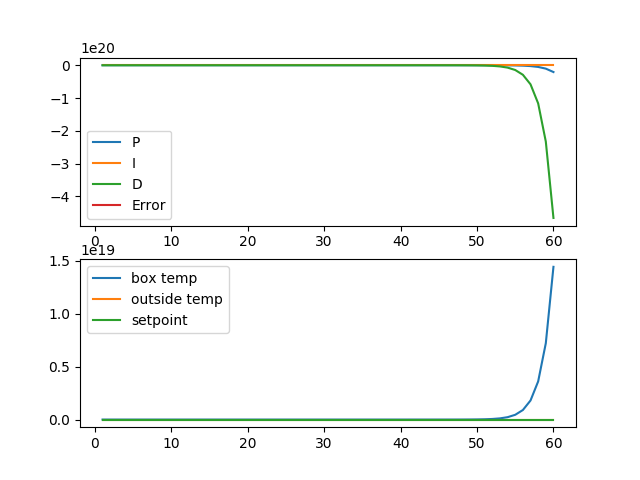
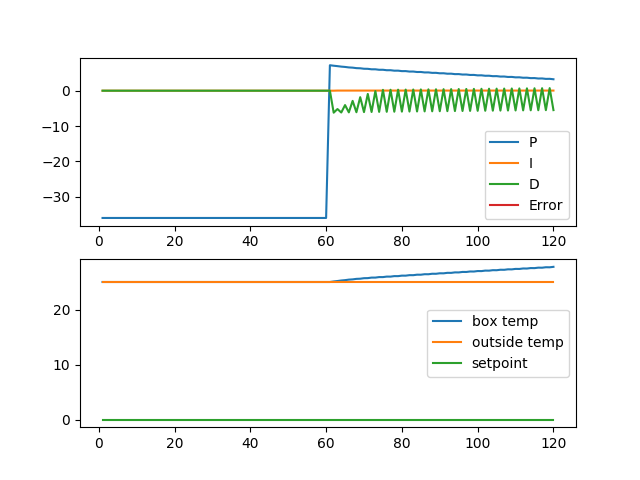
improved first_principles

diff --git a/first_principles_model.py b/first_principles_model.py
@@ -44,85 +44,80 @@ def optimize_parameters(parameters=[95, 1.95e-3], data_file='data.csv'):
 
 def run_model(run_time, PID_parameters, FP_parameters, data_file='data.csv'):
     '''Run a controller on the first-principles model
-    run_time        total run time in minutes
-    PID_parameters  PID parameters as (K_c, tau_I, tau_D)
-    FP_parameters   FP parameters as (UA, alpha)
-    data_file       Where to store the run data
+
+    run_time:        total run time in minutes
+
+    PID_parameters:  PID parameters as (K_c, tau_I, tau_D)
+    
+    FP_parameters:   FP parameters as (UA, alpha)
+    
+    data_file:       Where to store the run data
     '''
     Kc, tau_I, tau_D = PID_parameters
     # Bogus data row added to make concatenation work, never goes anywhere
-    data = [[1, 1, 1, 1, 1, 1, 1, 1, 1, 1, 1, 1]]
+    data = [[0, 0, 0, 0, 0, 0, 0, 0, 0, 0, 0, 0]]
     csv_file_header = 'time,control output,box humidity,box temp,outside humidity,outside temp,heater 1 temp,heater 2 temp,P,I,D,SP,Err'
 
+    # Initialize variables
     u = 0
     Qss = 0  # 0% heater to start
+    i = 0
     err = np.zeros(run_time*60+1)
     sp = np.zeros(run_time*60+1)
+    err_sum = 0
+    max_err_sum = 5
+    current_time = 0
+    prev_temp = 25
+    new_temp = 25
+
+    # Set up the set point
     sp[60:800] = 303.15 - 273.15  # 30 degrees C
     sp[800:1500] = 298.15 - 273.15  # 25 degrees C
     sp[1500:2100] = 310.15 - 273.15  # 37 degrees C
     sp[2100:3000] = 307.15 - 273.15  # 34 degrees C
     sp[3000:] = 300.15 - 273.15  # 27 degrees C
-    temp_in_array = [25]
-    err_sum = 0
-    prev_temp = 0
 
-    i = 0
+    # Main Loop
+    while current_time < run_time*60:
+        # read temp, humidity and time
+        humid_in, temp_in = (0, new_temp)
+        humid_out, temp_out = (0, 25)
+        current_time += 1  # Approximates the time change with 1 second
 
-    max_err_sum = 5
+        err[i] = sp[i] - temp_in
+        ddt = temp_in - prev_temp
 
-    while True:
-        try:
-            # read temp, humidity and time
-            humid_in, temp_in = (0, temp_in_array[i])
-            humid_out, temp_out = (0, 25)
-            current_time = i + 1  # Approximates the time change with 1 second
+        # PID controller to determine u
+        P = Kc * err[i]
+        I = Kc/tau_I * err_sum
+        D = - Kc * tau_D * ddt
 
-            # PID controller to determine u
-            print("i", i)
+        if (i > 60):
+            err_sum += err[i]
 
-            err[i] = sp[i] - temp_in
+        if err_sum > max_err_sum:
+            err_sum = max_err_sum
 
-            print("error", err[i])
+        prev_temp = temp_in
+        u = (Qss + P + I + D) * 100
+        u = max(0, u)
+        u = min(100, u)
 
-            ddt = temp_in - prev_temp
+        new_temp = odeint(first_principles, prev_temp, [
+                    0, current_time - data[-1][0]], args=(u, FP_parameters, temp_out))[-1][0]
 
-            P = Kc * err[i]
-            I = Kc/tau_I * err_sum
-            D = - Kc * tau_D * ddt
+        i += 1
 
-            if (i > 60):
-                err_sum += err[i]
+        # print current values
+        print('time: {:.1f}, u: {:.2f}, h_in: {}, t_in: {:.2f}, h1: {}, h2: {}, h_out: {}, t_out: {}, P: {:.2f}, I: {:.2f}, D: {:.2f}, SP: {:.2f}, err: {:.2f}'
+                .format(current_time, u, humid_in, temp_in, 'NA', 'NA', humid_out, temp_out, P, I, D, sp[i], err[i]))
+        data = np.vstack([data, [current_time, u, humid_in,
+                                    temp_in, humid_out, temp_out, 0, 0, P, I, D, err[i]]])
+        np.savetxt(data_file, data[1:],
+                    delimiter=',', header=csv_file_header)
 
-            if err_sum > max_err_sum:
-                err_sum = max_err_sum
-
-            prev_temp = temp_in
-            u = (Qss + P + I + D) * 100
-            u = max(0, u)
-            u = min(100, u)
-
-            dT = odeint(first_principles, temp_in_array[i], [
-                        0, current_time - data[-1][0]], args=(u, FP_parameters, temp_out))[-1][0]
-            print('dT:', dT)
-            temp_in_array.append(temp_in_array[-1]+dT)
-
-            i = i + 1
-
-            # print current values
-            print('time: {:.1f}, u: {}, h_in: {}, t_in: {}, h1: {}, h2: {}, h_out: {}, t_out: {}, P: {:.2f}, I: {:.2f}, D: {:.2f}'
-                  .format(current_time, u, humid_in, temp_in, 'NA', 'NA', humid_out, temp_out, P, I, D, sp[i], err))
-            data = np.vstack([data, [current_time, u, humid_in,
-                                     temp_in, humid_out, temp_out, 0, 0, P, I, D, err[i]]])
-            np.savetxt(data_file, data[1:],
-                       delimiter=',', header=csv_file_header)
-            if current_time >= run_time*60:
-                print('Run finished. Exiting...')
-                sys.exit()
-
-        except KeyboardInterrupt:
-            print('Exiting...')
-            sys.exit()
+    print('Run Finished.')
+    return
 
 
 if __name__ == '__main__':

diff --git a/main.py b/main.py
@@ -9,7 +9,7 @@ if __name__ == "__main__":
 	PID_parameters = (1.44, 221.925, 44.898)
 	# sol = fp.optimize_parameters(data_file='first_run_data.csv')
 	# FP_parameters = (sol['UA'], sol['alpha'])
-	FP_parameters = (62723, -7.42)
+	FP_parameters = (94.999, 0.0024)
 
-	utils.plot_data(data_file='test.csv')	
-	# fp.run_model(1, PID_parameters, FP_parameters, data_file='test.csv')
+	fp.run_model(2, PID_parameters, FP_parameters, data_file='test.csv')
+	utils.plot_data(data_file='test.csv', show_plots=True)	

diff --git a/utils.py b/utils.py
@@ -39,4 +39,4 @@ def blink_rgb_leb():
 
 
 if __name__ == '__main__':
-    plot_data(data_file='test.csv')
+    plot_data(data_file='step_test.csv')
